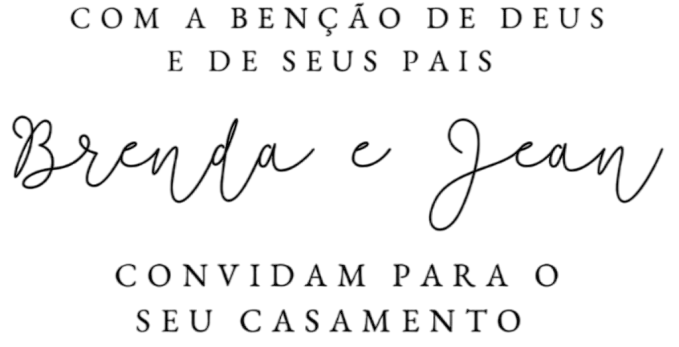
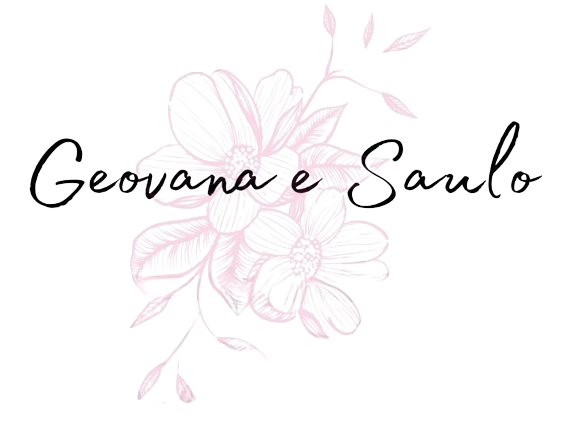
finaliza alterações na lista

diff --git a/frontend/src/pages/Home.jsx b/frontend/src/pages/Home.jsx
@@ -4,32 +4,85 @@ import ConviteCard from '../components/ConviteCard';
 import Header from '../components/Header';
 import SearchInput from '../components/SearchInput'
 import '../style/home.css';
+import { withSwal } from 'react-sweetalert2';
 
 class Home extends React.Component {
   state = {
     names: [],
+    firstLoad: true,
+    admin: false,
   };
 
-  componentDidMount() {
-    getAll().then(({ convidados }) => {
-       const convidadosSorted = convidados
-         .filter((convidado) => convidado.mostrar)
-         .sort((a, b) => a.name.localeCompare(b.name));
-       this.setState({ names: convidadosSorted });
-    });
+  async componentDidMount() {
+    const { convidados } = await getAll();
+    const convidadosSorted = convidados
+      .filter((convidado) => convidado.mostrar)
+      .sort((a, b) => a.name.localeCompare(b.name));
+
+    this.setState({ names: convidadosSorted, firstLoad: false });
+
+  const admin = localStorage.getItem('admin')
+   if (!admin) {
+    this.showInitialAlert();
+   } else {
+    this.setState({ admin: true })
+   }
   }
+
+  showInitialAlert = () => {
+    this.props.swal
+      .fire({
+        title: 'Quem você é?',
+        text: 'Selecione apenas umas das opções',
+        icon: 'question',
+        confirmButtonColor: '#cf7bb6',
+        confirmButtonText: 'Noivo/Noiva',
+        showCancelButton: true,
+        cancelButtonColor: '#cf7bb6',
+        cancelButtonText: 'Convidado',
+        allowOutsideClick: false,
+      })
+      .then((confirmed) => {
+        if (confirmed.isConfirmed) {
+          this.props.swal
+            .fire({
+              title: 'Digite a senha super secreta',
+              input: 'text',
+              confirmButtonText: 'Entrar',
+              confirmButtonColor: '#cf7bb6',
+              showLoaderOnConfirm: true,
+              preConfirm: (password) => {
+                if (password === 'Kw{+<)^B17wY@6j?') {
+                  this.setState({ admin: true });
+                  localStorage.setItem('admin', 'true')
+                }
+              },
+              allowOutsideClick: false,
+            })
+            .then(() => {
+              if (!this.state.admin) {
+                this.props.swal.fire({
+                  text: 'Senha Incorreta',
+                  icon: 'error',
+                  confirmButtonColor: '#cf7bb6',
+                });
+              }
+            });
+        }
+      });
+  };
 
   handleChange = (value) => {
     this.setState({ names: value });
   };
 
   render() {
-    const { names } = this.state;
+    const { names, firstLoad, admin } = this.state;
     return (
       <div className='div-main'>
-        <Header />
-        { names.length > 0 && (
-          <SearchInput initalState={names} handleChange={this.handleChange} />
+        <Header admin={admin}/>
+        {!firstLoad && (
+          <SearchInput initalState={names} handleChange={this.handleChange} admin={admin}/>
         )}
         <main>
           <section className='card-item'>
@@ -47,4 +100,4 @@ class Home extends React.Component {
   }
 }
 
-export default Home;
+export default withSwal(Home);

diff --git a/frontend/src/components/Header.jsx b/frontend/src/components/Header.jsx
@@ -1,31 +1,27 @@
 import React from 'react';
 import '../style/Header.css';
-import capa from '../img/convite-header-sem.png';
+import capa from '../img/convite-header-sem(2).png';
+import Nav from 'react-bootstrap/Nav';
 
 class Header extends React.Component {
-  state = {
-    products: [],
-  };
-
-  componentDidMount() {
-    const GET_PRODUCTS = localStorage.getItem('productsOnCart');
-    if (GET_PRODUCTS) {
-      this.setState({ products: JSON.parse(GET_PRODUCTS) });
-    }
-  }
-
-  componentDidUpdate(_, prevState) {
-    const GET_PRODUCTS = JSON.parse(localStorage.getItem('productsOnCart'));
-    if (GET_PRODUCTS && GET_PRODUCTS.length !== prevState.products.length) {
-      this.setState({ products: GET_PRODUCTS });
-    }
-  }
-
-  render() {
+render() {
+    const { admin } = this.props;
     return (
-      <header>
-        <img src={ capa } />
-      </header>
+      <>
+        <header>
+          <img src={capa} />
+        </header>
+        {admin && (
+          <Nav
+            expand='lg'
+            className='header-nav'
+            variant='underline'
+            defaultActiveKey='/results'
+          >
+            <Nav.Link href='/results' className='nav-link'>Visualizar Confirmações</Nav.Link>
+          </Nav>
+        )}
+      </>
     );
   }
 }

diff --git a/frontend/src/App.js b/frontend/src/App.js
@@ -1,14 +1,32 @@
 import React from 'react';
+import { getAll } from '../src/services/api';
 import { BrowserRouter, Switch, Route } from 'react-router-dom';
 import './App.css';
 import Home from './pages/Home';
+import ResultGrid from './components/ResultGrid';
 
 class App extends React.Component {
+  state = {
+    convidados: [],
+    admin: false,
+  };
+
+  async componentDidMount() {
+    const { convidados } = await getAll();
+    this.setState({ convidados });
+  }
+
   render() {
+    const { convidados, admin } = this.state
     return (
       <BrowserRouter>
         <Switch>
-          <Route exact path="/" component={ Home } />
+          <Route exact path='/' component={ Home } />
+          <Route
+            exact
+            path='/results'
+            render={(props) => <ResultGrid {...props} convidados={ convidados }/>}
+          />
         </Switch>
       </BrowserRouter>
     );

diff --git a/frontend/src/components/SearchInput.jsx b/frontend/src/components/SearchInput.jsx
@@ -42,9 +42,9 @@ class SearchInput extends React.Component {
   };
 
   render() {
-    const { search } = this.state;
+    const { search, admin } = this.state;
     return (
-      <div className='margin'>
+      <div className={ admin ? 'margin' : 'margin-convidado'}>
         <InputGroup className='mb-3'>
           <Form.Control
             ref='inputSearch'
@@ -54,10 +54,7 @@ class SearchInput extends React.Component {
             value={search}
             onInput={this.handleSearch}
           />
-          <Button
-            variant='secondary'
-            id='button-addon2'
-          >
+          <Button variant='outline-light' id='button-addon2'>
             <FeatherIcon icon='search' />
           </Button>
         </InputGroup>

diff --git a/frontend/src/style/Header.css b/frontend/src/style/Header.css
@@ -5,12 +5,22 @@
 
 header {
   align-items: center;
-  background-color: #CCCCCC;
+  background-color: #cf7bb6;
   display: flex;
   flex-direction: row;
   height: 148px;
   justify-content: center;
   width: 100%;
+}
+
+.header-nav {
+  margin-top: 90px;
+  display: flex;
+  justify-content: center;
+}
+
+.nav-link {
+  text-decoration: underline !important;
 }
 
 .header-children {
@@ -28,5 +38,8 @@ header {
 }
 
 img {
-  height: 140px;
+  height: 300px;
+  margin-top: 60px;
 }
+
+

diff --git a/frontend/public/index.html b/frontend/public/index.html
@@ -24,7 +24,7 @@
       work correctly both with client-side routing and a non-root public URL.
       Learn how to configure a non-root public URL by running `npm run build`.
     -->
-    <title>Brenda e Jean</title>
+    <title>Geovana e Saulo</title>
   </head>
   <body>
     <noscript>You need to enable JavaScript to run this app.</noscript>

diff --git a/frontend/src/style/home.css b/frontend/src/style/home.css
@@ -8,9 +8,9 @@ main {
   display: flex;
   flex-direction: row-reverse;
   justify-content: space-between;
-  background-color: #CCCCCC;
+  background-color: #cf7bb6;
 }
 
 .div-main {
-  background-color: #CCCCCC;
+  background-color: #cf7bb6;
 }

diff --git a/frontend/src/index.css b/frontend/src/index.css
@@ -7,6 +7,10 @@ body {
   -moz-osx-font-smoothing: grayscale;
 }
 
+html {
+  background-color: #cf7bb6;
+}
+
 code {
   font-family: source-code-pro, Menlo, Monaco, Consolas, 'Courier New',
     monospace;

diff --git a/frontend/src/style/SearchInput.css b/frontend/src/style/SearchInput.css
@@ -1,3 +1,8 @@
 .margin {
-  margin: 5%;
+  margin: 2%;
+}
+
+.margin-convidado {
+  margin: 8%;
+  margin-top: 100px;
 }
